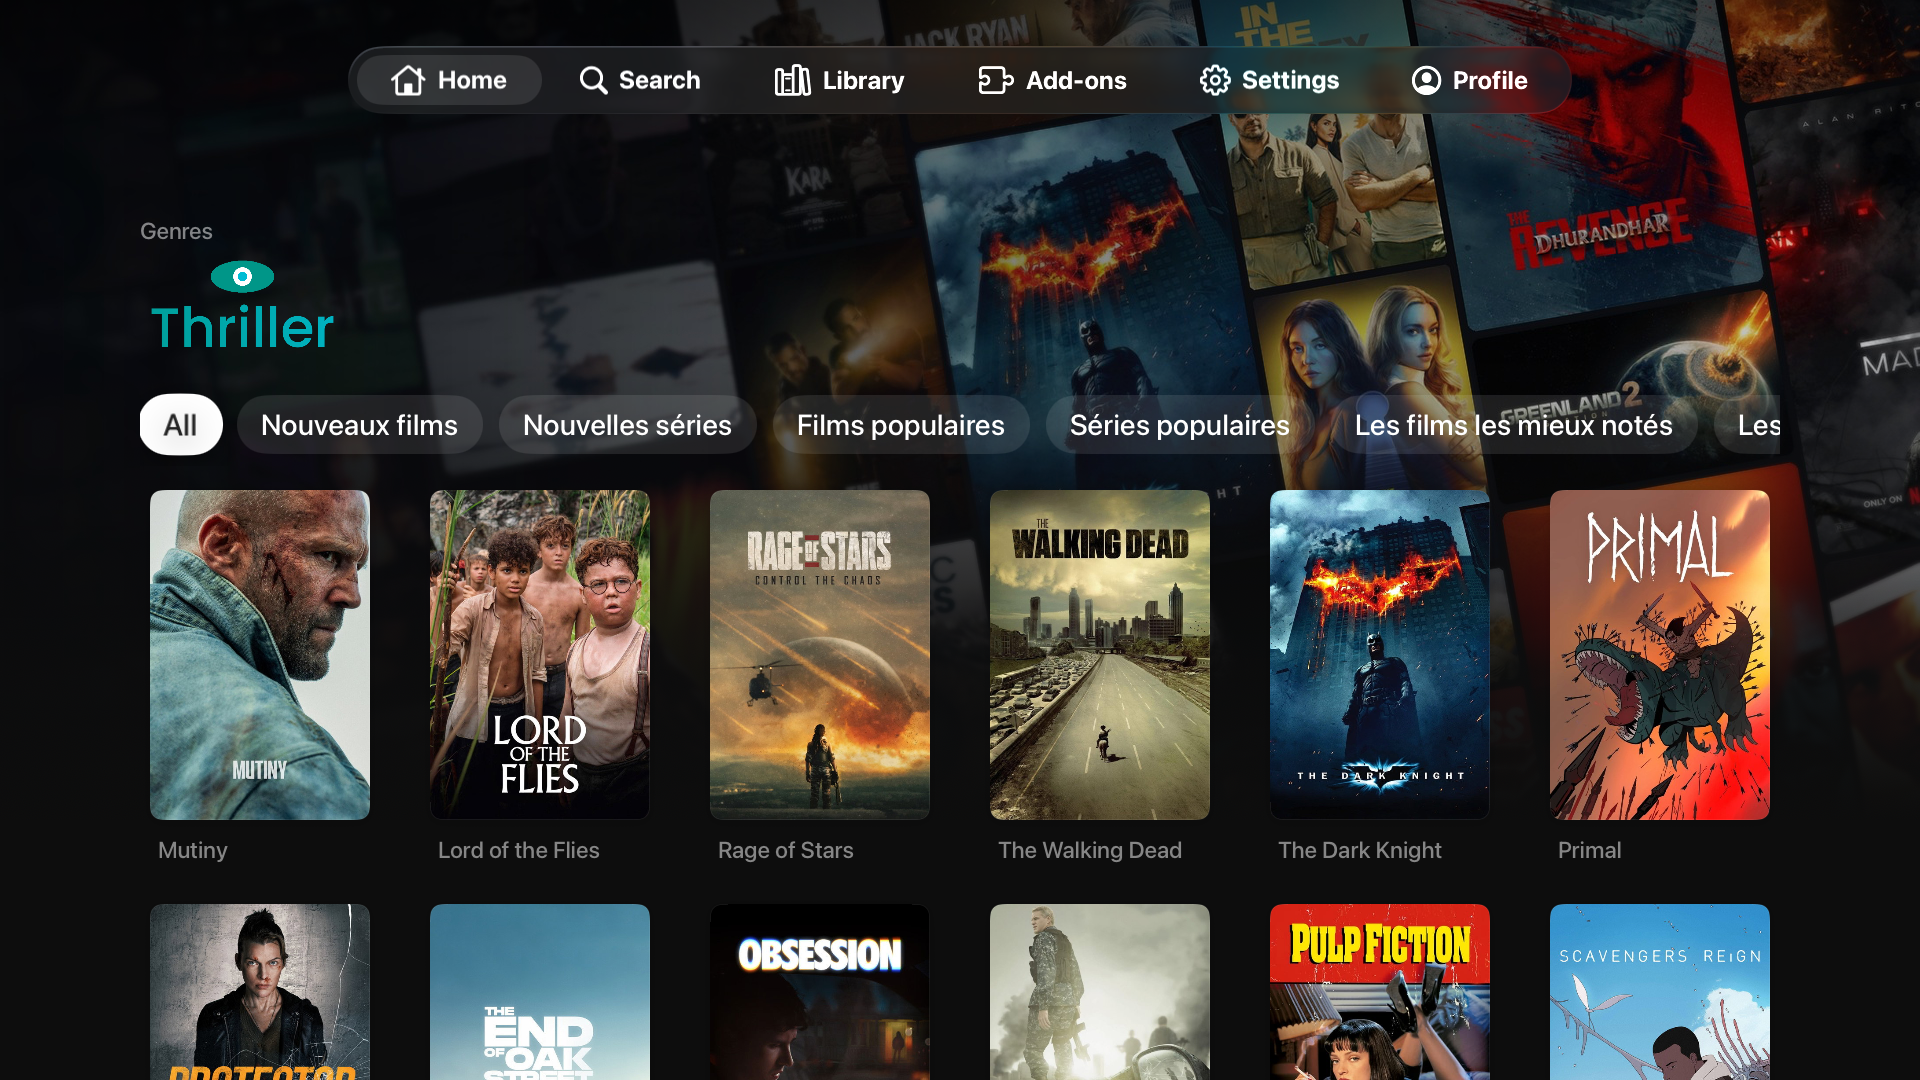
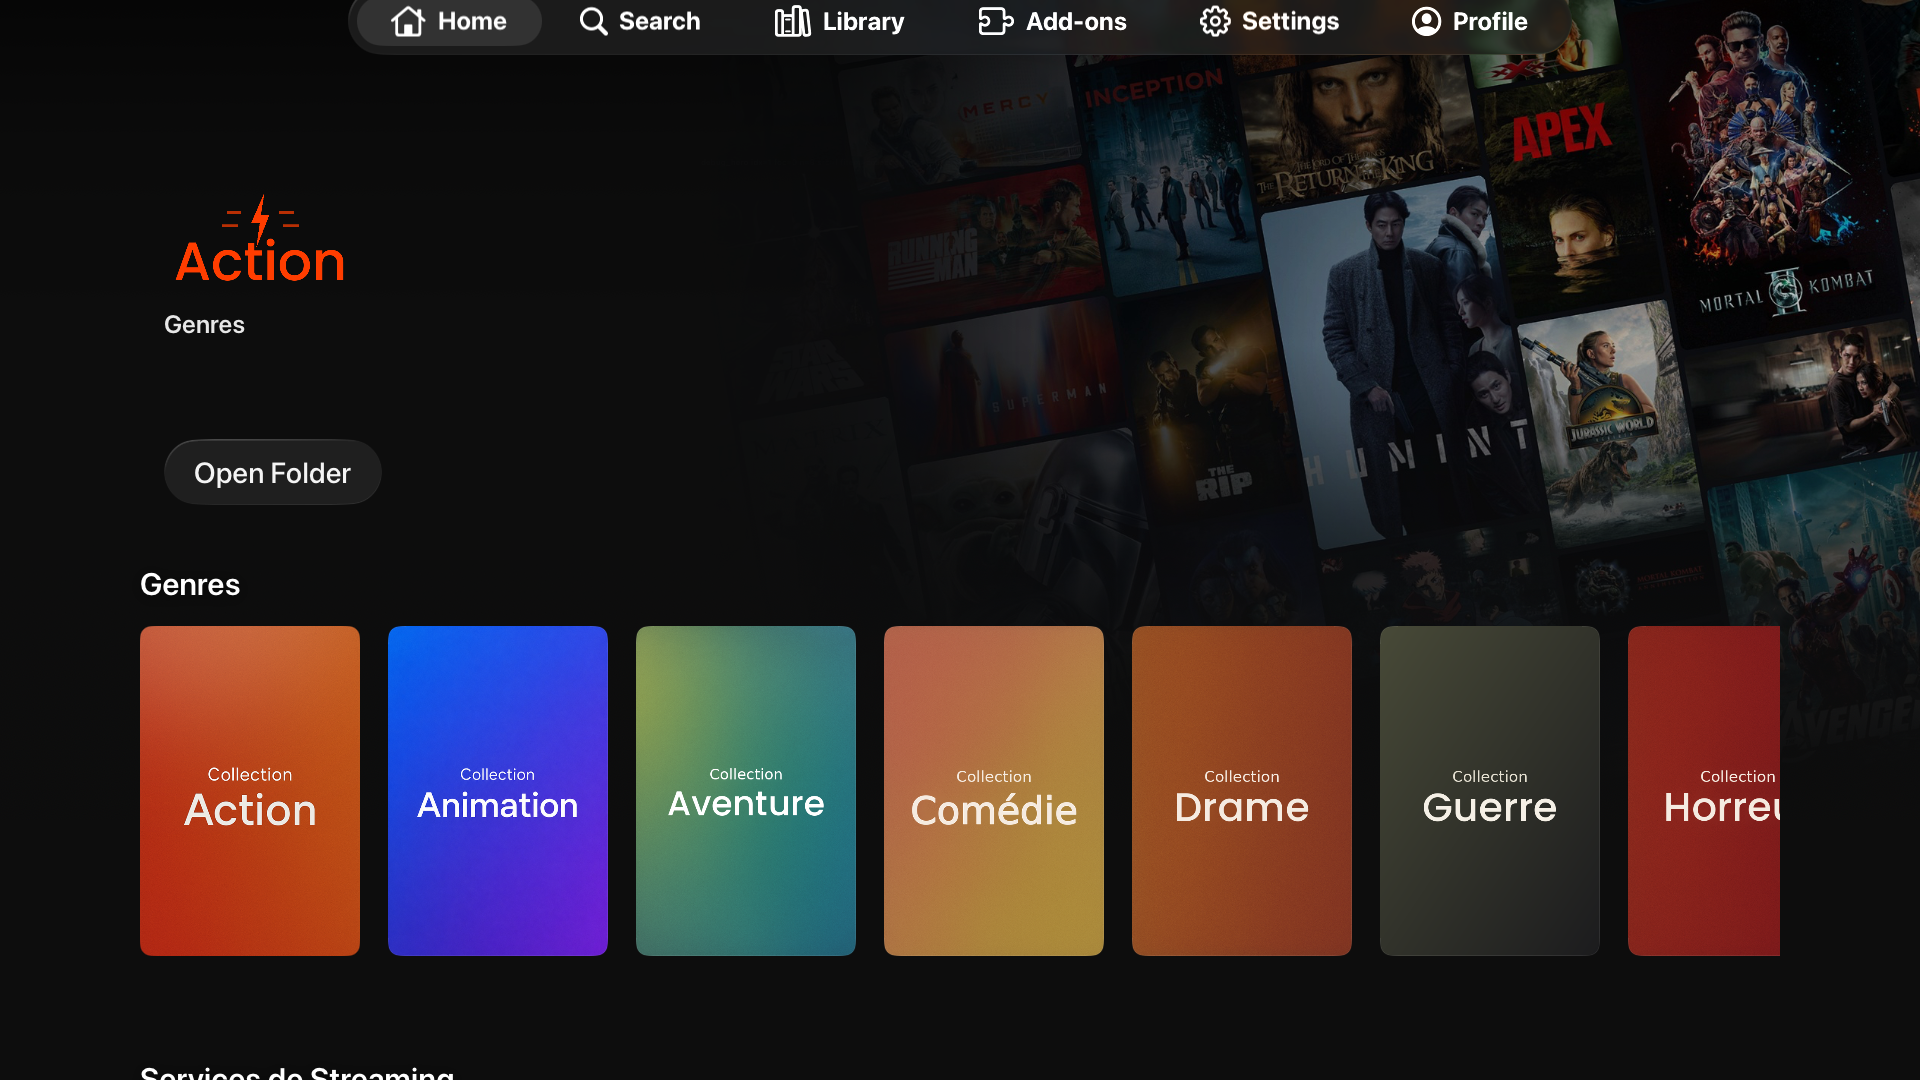
README: beta.14.5 — collection artwork in the Home hero (screenshot replaced); pointer 386eabfd (build 112)

diff --git a/README.md b/README.md
@@ -39,7 +39,7 @@ Rather than port the touch UI, this fork keeps only what travels well: the prove
 | ![Nuvio-Style Hero](design/screenshots/hero-nuvio.png) <br/> **Nuvio-Style Hero** (opt-in) — info on the left, artwork blending in from the right | ![Trailers on Focus](design/screenshots/trailer-morph.png) <br/> **Trailers on Focus** — the poster widens in the row and plays the trailer; with titles hidden, the logo rides the tile |
 | ![Pinned hero](design/screenshots/hero-pinned.png) <br/> **Pinned hero** — with Nuvio-Style on, the hero stays put and follows the focused title while only the rows scroll beneath it | ![Self-hosted server review](design/screenshots/self-hosted-server.png) <br/> **Self-hosted servers** — point the app at your own backend; discovery, capabilities & a trust review before switching |
 | ![TMDB filter editor](design/screenshots/tmdb-filter-editor.png) <br/> **TMDB filters on the TV** — edit a Discover folder's filters (incl. exclusions) right on the Apple TV; edits sync to your account | ![Trailer Location setting](design/screenshots/trailer-location.png) <br/> **Trailer Location** — play the focused title's trailer in the hero instead of morphing the poster; Autoplay Hero Trailer needs no focus at all |
-| ![Collection folder hero](design/screenshots/collection-folder-hero.png) <br/> **Collection folder hero** — a folder's configured backdrop and title logo open as the page's hero | ![Bigger season posters](design/screenshots/season-posters.png) <br/> **Season posters** — the season row now matches the More Like This tile size |
+| ![Collection artwork in the hero](design/screenshots/collection-folder-hero.png) <br/> **Collection artwork in the hero** — focus a collection tile and the hero takes that folder's backdrop and title logo | ![Bigger season posters](design/screenshots/season-posters.png) <br/> **Season posters** — the season row now matches the More Like This tile size |
 
 ## Features
 
@@ -53,7 +53,7 @@ Rather than port the touch UI, this fork keeps only what travels well: the prove
 - **Appearance themes** — seven accent colors, poster size/corner styles, landscape rows, and title-label options, applied instantly and synced per profile. New in this beta: the theme picker's focused swatch name is legible again on every theme, and **Card Depth → Edge Coverage: Top** draws a visible lit-from-above rail (it was a hairline you couldn't see from the couch; Full is unchanged). New in this beta: **Settings Style** presets (Default / Minimal), **icon-only detail buttons**, a **background-trailer duration** control (30s / 1 min / 90s / always) with a smooth fade back to the backdrop, and a **Trailer Sound by Default** toggle.
 - **Full-screen trailers with sound** from the detail page — now up to 1080p, and no more black screen with Match Content Frame Rate enabled. Auto-play, the background trailer, and the poster backdrop layer each have their own toggle — and the detail page now dims toward black as you scroll down into the details.
 - **Trailers on Focus** (opt-in, Settings → Home Screen) — hold focus on a poster and it widens into a 16:9 card at the poster's own height, playing the trailer right in the row; play/pause toggles sound. New in this beta: **Trailer Location: Poster / Hero** — with Hero selected (and the Nuvio-Style hero on), the poster stays put and the trailer plays in the hero backdrop, which already follows your focus; play/pause on the poster still toggles sound, Search keeps the poster morph, and the Settings summary names whichever surface is actually in use. Also new: **Autoplay Hero Trailer** (off by default) — the hero carousel's featured title plays its trailer with no focus required, hands over when you focus a poster, and goes quiet under a detail page, a tab switch or the stream picker. New in this beta: with **Hide Titles** on, the title's logo (or name) now stays on the playing tile — bottom-left over a soft scrim, the way Nuvio's TV app shows it — instead of the trailer playing nameless. The trailer pipeline keeps no cookies or disk cache between launches, so a rate-limited session can't outlive a restart.
-- **Hero source picker & Home Rows controls** — choose which catalogs feed the hero carousel, reorder Home rows, and collection tiles play their focus GIFs — decoded sharp on 4K panels (HD-parity resolution or better, trading a few frames instead of pixels) and rendering a collection's configured backdrop artwork on the folder tile. New in this beta: **collection folders open with their configured artwork** — a folder's hero backdrop and title logo (the fields Fusion community collections carry, which no Nuvio client rendered before) now draw as the folder page's hero: backdrop behind the grid, logo as the title, collection name as the eyebrow.
+- **Hero source picker & Home Rows controls** — choose which catalogs feed the hero carousel, reorder Home rows, and collection tiles play their focus GIFs — decoded sharp on 4K panels (HD-parity resolution or better, trading a few frames instead of pixels) and rendering a collection's configured backdrop artwork on the folder tile. New in this beta: **collection artwork on the Home page** — focus a collection tile and the hero takes that folder's configured backdrop and title logo (the fields Fusion community collections carry, which no Nuvio client rendered before), with the collection's name as the meta line and an Open Folder button; inside the folder the title logo is the page title.
 - **System-native tab bar** — minimizes as you scroll into content the way tvOS 26's own apps do, and from deep in the page a single **Menu** press jumps you back to the top (the "long way down, short way back" convention).
 - **Top Shelf extension** — your content surfaces directly on the Apple TV home screen (from-source builds only; the sideload IPA omits it because free-Apple-ID re-signing breaks extension signatures).
 - **Localized UI** — English, French, Spanish, German, Italian, and — new in this beta — **Vietnamese (Tiếng Việt)**; every language caught up on all recent strings at the same time. With Metadata Language set, the hero and rows arrive already localized (no English-then-French swap), rows localizing their captions as they scroll into view.
